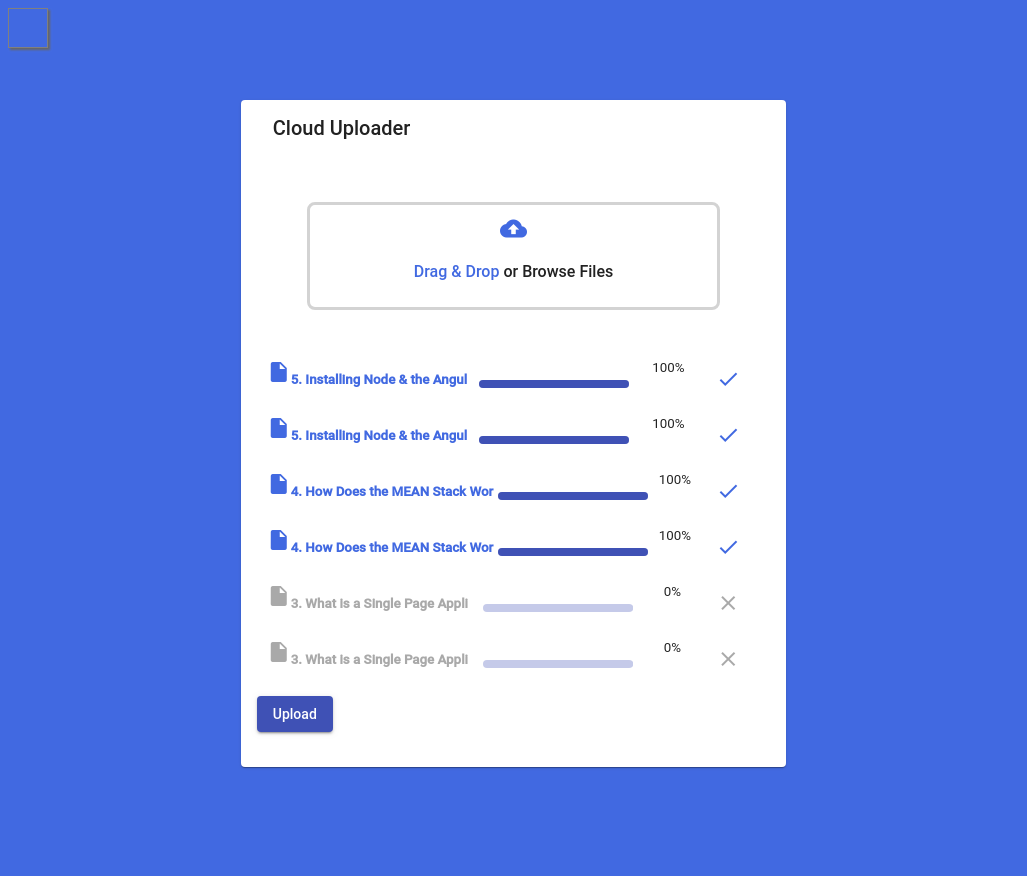
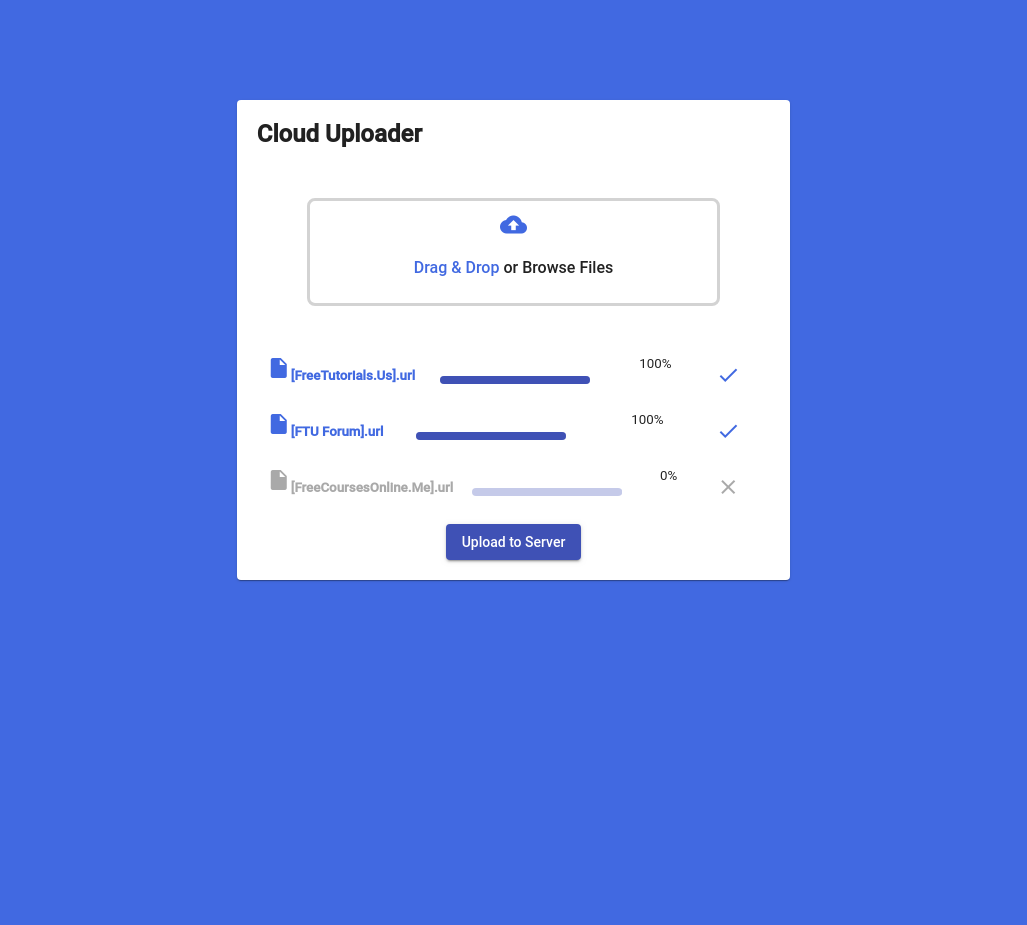
code clean

Changed region(s): [[0.2181, 0.0925, 0.779, 0.8938], [0.2804, 0.2158, 0.7167, 0.4007], [0.0, 0.0, 0.0623, 0.0616]]

diff --git a/client/src/app/app.component.ts b/client/src/app/app.component.ts
@@ -16,14 +16,9 @@ import {
 
 export class AppComponent implements OnInit {
   selectedFile;
-  // fReader;
-  // name = '';
   uploadPercent;
-
   color = 'primary';
   mode = 'determinate';
-  // value = 50.25890809809;
-
   selectedFiles = [];
   verticalPosition: MatSnackBarVerticalPosition = 'top';
   horizontalPosition: MatSnackBarHorizontalPosition = 'center';
@@ -39,16 +34,12 @@ export class AppComponent implements OnInit {
     public snackBar: MatSnackBar,
   ) {}
 
-  ngOnInit() {
-   
-  }
+  ngOnInit() {}
 
   dragOverHandler(event) {
     console.log('files in drop zone');
-
     event.preventDefault();
     event.stopPropagation();
-    
   }
 
   dropHandler(event) {
@@ -143,19 +134,12 @@ export class AppComponent implements OnInit {
   }
 
   resumeUpload(file) {
-    // let fileId = `${this.selectedFile.name}-${this.selectedFile.lastModified}`;
     let headers2 = new HttpHeaders({
       'size': file.selectedFile.size.toString(),
       'x-file-id': file.fileId,
       'x-start-byte': file.uploadedBytes.toString(),
       'name': file.fileName
     });
-
-    // console.log(JSON.stringify(res));
-    // if(res.status === 'file is present'){
-    //   alert(res.status);
-    //   return;
-    // }
 
     const req = new HttpRequest('POST', 'http://localhost:3000/upload', file.selectedFile.slice(file.uploadedBytes, file.selectedFile.size + 1), {
       headers: headers2,
@@ -184,7 +168,7 @@ export class AppComponent implements OnInit {
   deleteFile(file) {
     this.selectedFiles.splice(this.selectedFiles.indexOf(file), 1);
     console.log('====================================');
-    console.log(file);
+    console.log(file, ' Deleted');
     console.log('====================================');
   }
 }

diff --git a/client/src/app/app.component.html b/client/src/app/app.component.html
@@ -1,13 +1,6 @@
-<!--The content below is only a placeholder and can be replaced.-->
-<div >
-  <!-- <h1 style="text-align: center">Cloud Upload</h1> -->
-  
-</div>
 <div class="card">
-  <mat-card style="width: 50vw; margin: auto">
-    <mat-card-header>
-      <mat-card-title>Cloud Uploader</mat-card-title>
-    </mat-card-header>
+  <mat-card style="width: 50vw; margin: auto; padding: 20px;">
+    <h2>Cloud Uploader</h2>
     <div class="drop-zone" (click)="fileSelect.click()" (drop)="dropHandler($event)" (dragover)="dragOverHandler($event)">
       <i class="material-icons">cloud_upload</i>
       <p>
@@ -26,13 +19,9 @@
         <i class="material-icons" [style.color]="file.uploadCompleted ? 'royalblue' : 'darkgray'">{{file.uploadCompleted ? 'check' : 'close'}}</i>
       </button>
     </div>
-    <!-- <button mat-raised-button (click)="fileSelect.click()">Select File</button><br><br> -->
-    <!-- <h4 *ngIf="name.length > 0">Selected File: {{name}}</h4> -->
-
+    <div style="text-align: center;">
       <input type="file" hidden #fileSelect name="largeFile" (change)="onFileSelect($event)" multiple />
-  
-      <button mat-raised-button *ngIf="selectedFiles" color="primary" (click)="uploadFiles()">Upload</button>
-    <br><br>
-
+      <button mat-raised-button *ngIf="selectedFiles" color="primary" (click)="uploadFiles()">Upload to Server</button>
+    </div>
   </mat-card>
 </div>
